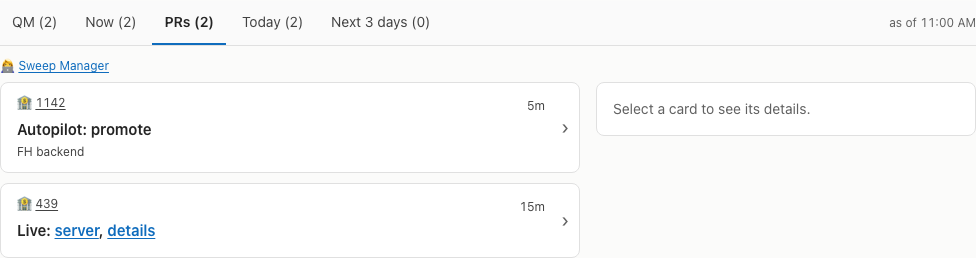
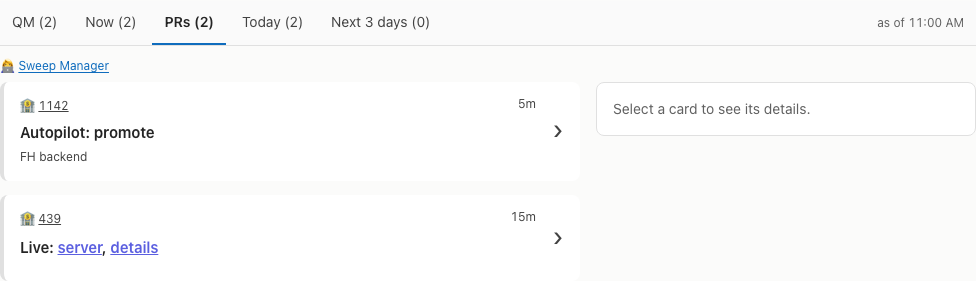
fix(priorities-tables): Centre a larger card chevron, pad the stamp, drop the card project link (#260)

diff --git a/web/src/ui/ui.css b/web/src/ui/ui.css
@@ -4,23 +4,25 @@
 
 /* Card: the whole card selects; links and tools sit above the stretched target. @req FR:ui-kit/card */
 .ui-cards { list-style: none; margin: 0; padding: 0; display: flex; flex-direction: column; gap: 14px; }
-.ui-card { position: relative; display: grid; grid-template-columns: minmax(0, 1fr) auto; grid-template-areas: "top tools" "open tools"; gap: 6px 8px; padding: 14px 14px 14px 16px; border-radius: var(--fl-r-xl); border-left: 4px solid var(--ui-edge, var(--line)); background: var(--ui-soft, var(--panel)); color: var(--ui-ink, var(--ink)); transition: background var(--fl-fast) var(--fl-ease), box-shadow var(--fl-fast); }
+.ui-card { position: relative; display: grid; grid-template-columns: minmax(0, 1fr) auto; grid-template-areas: "top tools" "open tools"; gap: 6px 8px; padding: 14px 44px 14px 16px; border-radius: var(--fl-r-xl); border-left: 4px solid var(--ui-edge, var(--line)); background: var(--ui-soft, var(--panel)); color: var(--ui-ink, var(--ink)); transition: background var(--fl-fast) var(--fl-ease), box-shadow var(--fl-fast); }
 .ui-card.strong { background: var(--ui-strong, var(--ui-soft, var(--panel))); box-shadow: var(--fl-shadow4); }
 .ui-card[data-selected="true"] { outline: 2px solid var(--focus); outline-offset: 2px; }
 .ui-card-top { grid-area: top; display: flex; flex-wrap: wrap; align-items: center; gap: 4px 10px; min-width: 0; font-size: 12px; color: var(--ui-ink2, var(--ink2)); }
 .ui-card-top a { position: relative; z-index: 1; }
-.ui-card-open { grid-area: open; position: static; display: grid; grid-template-columns: minmax(0, 1fr) auto; grid-template-areas: "title chev" "sub chev"; gap: 4px 8px; align-items: center; min-height: 32px; padding: 0; border: 0; background: none; color: inherit; font: inherit; text-align: left; cursor: pointer; }
+.ui-card-open { grid-area: open; position: static; display: grid; grid-template-columns: minmax(0, 1fr); grid-template-areas: "title" "sub"; gap: 4px 8px; align-items: center; min-height: 32px; padding: 0; border: 0; background: none; color: inherit; font: inherit; text-align: left; cursor: pointer; }
 .ui-card-open::after { content: ''; position: absolute; inset: 0; border-radius: inherit; }
 .ui-card-open:focus-visible { outline: none; }
 .ui-card-open:focus-visible::after { outline: 2px solid var(--focus); outline-offset: 2px; border-radius: var(--fl-r-xl); }
 .ui-card:hover .ui-card-title { text-decoration: underline; }
 .ui-card-title { grid-area: title; font-size: 15px; font-weight: 600; line-height: 21px; overflow-wrap: anywhere; }
 .ui-card-sub { grid-area: sub; display: flex; flex-wrap: wrap; gap: 4px 12px; font-size: 12px; color: var(--ui-ink2, var(--ink2)); }
-.ui-card-chev { grid-area: chev; font-size: 20px; color: var(--ui-ink2, var(--ink2)); }
+/* The chevron: 28 px, in a 44 px column at the right edge, centred on the full card height (the card is its containing block). @req FR:ui-kit/card.chev */
+.ui-card-chev { position: absolute; inset: 0 0 0 auto; width: 44px; display: flex; align-items: center; justify-content: center; padding-bottom: 4px; font-size: 28px; line-height: 1; color: var(--ui-ink2, var(--ink2)); pointer-events: none; }
 /* With `label`: title and sub line outside the button, so their links stay links above the stretched target. */
-.ui-card-body { grid-area: open; display: grid; grid-template-columns: minmax(0, 1fr) auto; grid-template-areas: "title chev" "sub chev"; gap: 4px 8px; align-items: center; min-width: 0; }
+.ui-card-body { grid-area: open; display: grid; grid-template-columns: minmax(0, 1fr); grid-template-areas: "title" "sub"; gap: 4px 8px; align-items: center; min-width: 0; }
 .ui-card-body a { position: relative; z-index: 1; }
-.ui-card-open.ui-card-chev-btn { grid-area: chev; display: inline-flex; align-items: center; justify-content: center; min-width: 24px; }
+/* The button holds only the chevron: it takes no room of its own; its stretched target covers the card. */
+.ui-card-open.ui-card-chev-btn { grid-area: 1 / 1 / -1 / -1; display: block; }
 .ui-card-tools { grid-area: tools; position: relative; z-index: 1; display: flex; flex-direction: column; gap: 4px; align-items: center; }
 /* An open menu lifts its card's tools above the cards below. */
 .ui-card-tools:has(.ui-menu) { z-index: 30; }
@@ -70,7 +72,7 @@
 .ui-tab:hover { color: var(--fl-fg1); }
 .ui-tab[aria-selected="true"] { color: var(--fl-fg1); font-weight: 600; border-bottom-color: var(--fl-brand); }
 .ui-tab:focus-visible { outline: 2px solid var(--fl-focus); outline-offset: -2px; border-radius: var(--fl-r-sm); }
-.ui-tabbar-aside { flex: none; font-size: 12px; line-height: 16px; color: var(--fl-fg3); white-space: nowrap; }
+.ui-tabbar-aside { flex: none; padding-inline-end: var(--fl-s-m); font-size: 12px; line-height: 16px; color: var(--fl-fg3); white-space: nowrap; }
 
 /* Split view: list and detail side by side when wide; detail replaces the list when narrow. @req FR:ui-kit/split */
 .ui-split { display: block; }

diff --git a/web/e2e/priorities-tables.spec.ts b/web/e2e/priorities-tables.spec.ts
@@ -46,6 +46,8 @@ const shot = async (page: Page, name: string) => {
   await page.setViewportSize({ width: page.viewportSize()!.width, height: 1400 });
   await page.getByTestId('pri-tables').screenshot({ path: `e2e/screenshots/priorities-report-${name}.png` });
 };
+/** Narrow: the open detail hides the list; go back to it. */
+const back = async (page: Page) => { const b = page.getByRole('button', { name: '‹ Back' }); if (await b.count()) await b.click(); };
 /** Text outside links that still looks like a PR or issue ref. */
 const bareRefs = (page: Page) => page.getByTestId('pri-tables').evaluate((el) => [...el.querySelectorAll('.ui-card-title, .ui-card-top, .pri-d')].flatMap((c) => {
   const x = c.cloneNode(true) as HTMLElement;
@@ -84,15 +86,21 @@ test.describe('Priorities report', () => {
     }
     await page.getByTestId('pri-tab-now').click();
     const fh = cards(page, 'now').nth(1);
-    await expect(fh.getByRole('link', { name: 'FH Premium' })).toHaveAttribute('href', '#/list?project=allyte');
-    // no agent link on the card; it lives in the detail pane
+    // no project or agent link on the card; they live in the detail pane. @req FR:priorities-tables/web.card.project
+    await expect(fh.locator('.ui-card-top')).toHaveText('FH Premium');
+    expect(await fh.locator('.ui-card-top a').count()).toBe(0);
     expect(await fh.locator('.ui-card-sub a').count()).toBe(0);
     await expect(fh.getByRole('link', { name: '430' })).toHaveAttribute('href', U(430));
     const gap = cards(page, 'now').nth(2);
-    await expect(gap.locator('.ui-card-top')).toHaveText('FH 0.11 ⚠ no link');
+    await expect(gap.locator('.ui-card-top')).toHaveText('FH 0.11');
     expect(await gap.getByRole('link').count()).toBe(0);
+    await gap.getByRole('button', { name: 'Details: FH 0.11' }).click();
+    await expect(detail(page).getByRole('heading')).toHaveText('FH 0.11 ⚠ no link');
+    await back(page);
     await fh.getByRole('button', { name: 'Details: FH Premium' }).click();
+    await expect(detail(page).getByRole('link', { name: 'FH Premium' })).toHaveAttribute('href', '#/list?project=allyte');
     await expect(detail(page).getByRole('link', { name: 'FH backend' })).toHaveAttribute('href', 'claude://claude.ai/epitaxy/s1');
+    await back(page);
     await page.getByTestId('pri-tab-qm').click();
     await cards(page, 'qm').nth(1).getByRole('button').click();
     await expect(detail(page).getByRole('link', { name: 'qm-planner' })).toHaveAttribute('href', '#/agents?file=.claude%2Fagents%2Fqm-planner.md');
@@ -187,6 +195,24 @@ test.describe('Priorities report', () => {
     expect(await c.evaluate((el) => getComputedStyle(el).backgroundColor)).toBe(await c.evaluate((el) => { const p = document.createElement('div'); p.style.background = 'var(--fl-bg1)'; el.parentElement!.appendChild(p); const b = getComputedStyle(p).backgroundColor; p.remove(); return b; }));
     expect(await page.evaluate(() => document.documentElement.scrollWidth <= window.innerWidth)).toBe(true);
     if (info.project.name === 'mobile') for (const t of await page.getByRole('tab').all()) expect((await t.boundingBox())!.height).toBeGreaterThanOrEqual(44);
+  });
+
+  // @req FR:priorities-tables/web.card.open @req FR:priorities-tables/web.tabs.head @req FR:ui-kit/card.chev @req FR:ui-kit/tabs
+  test('the chevron is large and centred on the card height; the stamp has space after it', async ({ page }) => {
+    await open(page, view(), '#/now?pri=now');
+    for (const c of await cards(page, 'now').all()) {
+      const [card, chev] = [(await c.boundingBox())!, (await c.locator('.ui-card-chev').boundingBox())!];
+      expect(Math.abs((chev.y + chev.height / 2) - (card.y + card.height / 2))).toBeLessThanOrEqual(1);
+      expect(chev.height).toBeGreaterThanOrEqual(card.height - 1);
+      expect(chev.width).toBeGreaterThanOrEqual(44);
+      expect(card.x + card.width - (chev.x + chev.width)).toBeLessThanOrEqual(1);
+      expect(await c.locator('.ui-card-chev').evaluate((el) => parseFloat(getComputedStyle(el).fontSize))).toBeGreaterThanOrEqual(28);
+      // the status chip stays clear of the chevron
+      const tools = await c.locator('.ui-card-tools').count() ? await c.locator('.ui-card-tools').boundingBox() : null;
+      if (tools) expect(tools.x + tools.width).toBeLessThanOrEqual(chev.x + 1);
+    }
+    const [bar, stamp] = [(await page.locator('.pri-head .ui-tabbar').boundingBox())!, (await page.getByTestId('pri-stamp').boundingBox())!];
+    expect(bar.x + bar.width - (stamp.x + stamp.width)).toBeGreaterThanOrEqual(12);
   });
 
   for (const scheme of ['light', 'dark'] as const) {

diff --git a/web/src/PrioritiesTables.tsx b/web/src/PrioritiesTables.tsx
@@ -1,9 +1,9 @@
 /**
  * Now's priorities report: tabs (QM, Now, PRs, Today, Next 3 days, each with its count of real rows) over a list of muted
- * cards and a detail pane, built from the shared components (`web/src/ui/`). The whole card opens its detail; the agent link lives in
+ * cards and a detail pane, built from the shared components (`web/src/ui/`). The whole card opens its detail; the project and agent links live in
  * the detail only. The stamp sits at the right end of the tab bar. The tab is kept in the hash.
  * @req FR:priorities-tables/web.place @req FR:priorities-tables/web.tabs @req FR:priorities-tables/web.tabs.count @req FR:priorities-tables/web.tabs.default
- * @req FR:priorities-tables/web.tabs.hash @req FR:priorities-tables/web.tabs.head @req FR:priorities-tables/web.table @req FR:priorities-tables/web.table.line
+ * @req FR:priorities-tables/web.card.project @req FR:priorities-tables/web.tabs.hash @req FR:priorities-tables/web.tabs.head @req FR:priorities-tables/web.table @req FR:priorities-tables/web.table.line
  * @req FR:priorities-tables/web.table.gap @req FR:priorities-tables/web.table.empty @req FR:priorities-tables/web.links @req FR:priorities-tables/web.live @req FR:priorities-tables/web.live.absent
  * @req NFR:priorities-tables/a11y.axe @req NFR:priorities-tables/a11y.tokens @req NFR:priorities-tables/a11y.keys @req NFR:priorities-tables/a11y.target @req NFR:priorities-tables/a11y.mobile
  */
@@ -117,7 +117,7 @@ export function PrioritiesTables({ v }: { v: PrioritiesView }) {
         )))
         : (!n ? <Only text="Nothing here" /> : s.t.rows.map((r, i) => (
           <SelectCard key={`${r.id}:${r.ref ?? r.project}`} class={`pri-card${r.gap ? ' pri-gap' : ''}`} label={`Details: ${r.project}`} selected={at === i} onSelect={() => setSel(i)}
-            top={<><LinkOr href={projectHref(r.file)} text={r.project} />{r.stale && <span class="pri-stale"> stale</span>}</>}
+            top={<>{r.project}{r.stale && <span class="pri-stale"> stale</span>}</>}
             tools={r.status ? <Status s={r.status} /> : undefined}
             title={r.gap ? <span class="pri-muted">{actionText(r)}</span> : <Rich text={r.action} />}
             sub={<AgentName a={r.agent} more={0} />} />

diff --git a/web/e2e/prs.spec.ts b/web/e2e/prs.spec.ts
@@ -236,6 +236,10 @@ test('one card: repo, # link, title, author, one action flag, spec lines, Pin, A
   const flag = await c.locator('.ui-flag').evaluate((e) => { const cs = getComputedStyle(e); return { bg: cs.backgroundColor, border: cs.borderTopWidth, cursor: cs.cursor, tab: (e as HTMLElement).tabIndex, role: e.getAttribute('role'), tag: e.tagName, icon: !!e.querySelector('svg') }; });
   expect(flag).toEqual({ bg: 'rgba(0, 0, 0, 0)', border: '0px', cursor: 'default', tab: -1, role: null, tag: 'SPAN', icon: true });
   await expect(c.locator('.pr-spec')).toHaveText('8 spec lines');
+  // The chevron: its 44 px column spans the card height at the right edge; the tools stay clear of it. @req FR:ui-kit/card.chev
+  const [box, chev, tools] = [(await c.boundingBox())!, (await c.locator('.ui-card-chev').boundingBox())!, (await c.locator('.ui-card-tools').boundingBox())!];
+  expect(Math.abs((chev.y + chev.height / 2) - (box.y + box.height / 2))).toBeLessThanOrEqual(1);
+  expect([chev.width >= 44, box.x + box.width - (chev.x + chev.width) <= 1, tools.x + tools.width <= chev.x + 1]).toEqual([true, true, true]);
   await expect(c.getByRole('button')).toHaveCount(3); // select + Pin + Actions
   await expect(c.getByRole('button', { name: 'Actions for allytehq/finops-hubs#1105' })).toHaveAttribute('aria-haspopup', 'menu');
   await expect(c.getByRole('button', { name: 'Pin allytehq/finops-hubs#1105' })).toHaveAttribute('aria-pressed', 'false');

diff --git a/.xe/features/priorities-tables/spec.md b/.xe/features/priorities-tables/spec.md
@@ -144,21 +144,22 @@ Owner needs the report on the Now page so that he sees it without a new screen.
   - **FR:web.tabs.default** (P1): The first tab shown MUST be QM when QM is a priority today, else Now.
   - **FR:web.tabs.hash** (P1): The chosen tab MUST be kept in the URL hash (`#/now?pri=prs`) and restored on load.
   - **FR:web.tabs.keys** (P1): Tabs MUST follow the ARIA tabs pattern: arrow keys, Home and End move between tabs.
-  - **FR:web.tabs.head** (P1): The stamp `as of <time>` (`, stale` when stale) of the chosen tab MUST sit small at the right end of the tab bar, and the bar MUST stay in view on scroll, with the time in the report's configured time zone.
+  - **FR:web.tabs.head** (P1): The stamp `as of <time>` (`, stale` when stale) of the chosen tab MUST sit small at the right end of the tab bar with 12 px of space after it, and the bar MUST stay in view on scroll, with the time in the report's configured time zone.
 - **FR:web.kit** (P1): The report MUST be built from the shared components (`FR:ui-kit`, `web/src/ui/`: `Tabs`, `SelectCard`, `StatusChip`, `SplitView`, `useWide`), which the PR page also uses (`.xe/standards/ui.md`).
 - **FR:web.table** (P1): Each row MUST be a muted card: project and status on line 1, next action on line 2, agent on line 3. A PR card MUST show PR and Time on line 1, the next action on line 2 and the agent on line 3.
   - **FR:web.table.line** (P1): Each line MUST show one line and end a cut line with `…`.
   - **FR:web.status.chip** (P1): Status MUST be a `StatusChip` (`FR:ui-kit/chip`: a dot and one word on a tint); a row with no agent MUST show no chip.
   - **FR:web.card.agent** (P1): The card MUST show the agent name as plain text, with no added emoji and no link.
-  - **FR:web.card.open** (P1): The whole card MUST open its detail (one target, ending in `›`); links on the card MUST stay links.
+  - **FR:web.card.project** (P1): The card MUST show the project as plain text.
+  - **FR:web.card.open** (P1): The whole card MUST open its detail (one target, ending in `›`, `FR:ui-kit/card.chev`); links on the card MUST stay links.
 - **FR:web.detail** (P1): The detail pane MUST show the project (linked), status chip, full next action (linked refs), agent (linked) with `+ N more on this goal`, source `path:line` and the stamp. Wide (900 px or more) it MUST sit beside the list; narrow it MUST replace the list, with Back.
   - **FR:web.table.gap** (P1): A gap row MUST show its action in muted text with the word `Gap:` first.
   - **FR:web.table.empty** (P1): An empty tab MUST show one card `Nothing here`.
 - **FR:web.links** (P1): Every row MUST link its targets.
-  - **FR:web.links.project** (P1): The project MUST link to its project page (`#/list?project=<file>`).
+  - **FR:web.links.project** (P1): In the detail pane, the project MUST link to its project page (`#/list?project=<file>`).
   - **FR:web.links.agent** (P1): In the detail pane, the agent MUST link to its session, else to its agent file in the Agents view.
   - **FR:web.links.refs** (P1): Each PR, issue and URL in the action MUST be a link; no bare `#12` or `PR 12` MUST show.
-  - **FR:web.links.gap** (P1): A project or agent with no link target MUST show the gap marker `⚠ no link`, never plain text alone.
+  - **FR:web.links.gap** (P1): In the detail pane, a project or agent with no link target MUST show the gap marker `⚠ no link`.
   - **FR:web.links.none** (P1): `--` MUST be plain text.
 - **FR:web.live** (P1): Now MUST read `GET /priorities` on load, on each live change and every 60 s while visible.
   - **FR:web.live.absent** (P2): Now MUST hide the report when `GET /priorities` answers 404.

diff --git a/.xe/features/ui-kit/spec.md b/.xe/features/ui-kit/spec.md
@@ -24,6 +24,7 @@ The owner needs every list view to look and act the same so that he reads a PR, 
 ### FR:card: Selectable card
 
 - **FR:card** (P1): `SelectCard` is one list item: an optional top line (links, flags, chips), a title, an optional sub line, an optional tools column, and a chevron (`›`). One button covers the card; a tap or click anywhere that is not a link or a tool selects it, and Enter or Space on it does the same. Links and tools sit above it. `selected` sets `aria-current` and a focus-colored outline. `sr` is text read after the title by assistive tech only. With `label`, the title and sub line sit outside the button, so links in them stay links, and the button (the chevron, stretched over the card) is named `label`. A view sets the tone with the CSS variables `--ui-edge`, `--ui-soft`, `--ui-strong`, `--ui-ink`, `--ui-ink2`, and the class `strong`. Cards in a `ui-cards` list have 14 px between them and 14 px padding inside
+  - **FR:card.chev** (P1): The 28 px chevron MUST sit centred in a 44 px column at the right edge, over the card height.
 
 ### FR:flag: Flag
 
@@ -43,7 +44,7 @@ The owner needs every list view to look and act the same so that he reads a PR, 
 
 ### FR:tabs: Tabs
 
-- **FR:tabs** (P1): `Tabs` is a tab bar (ARIA tabs pattern: one selected tab with `tabIndex` 0, arrow keys, Home and End pick and focus). An optional `aside` sits small at the right end of the bar
+- **FR:tabs** (P1): `Tabs` is a tab bar (ARIA tabs pattern: one selected tab with `tabIndex` 0, arrow keys, Home and End pick and focus). An optional `aside` sits small at the right end of the bar, with 12 px of space after it
 
 ### FR:split: Split view
 

diff --git a/.xe/standards/ui.md b/.xe/standards/ui.md
@@ -14,4 +14,4 @@ Applies to every view in `web/`. See also `docs/design-system.md`.
 
 - Muted Fluent 2: neutral surfaces, one accent (brand: links, the chosen tab, focus).
 - State is a `StatusChip`: a dot and one word on a light tint.
-- A card selects as a whole (`SelectCard`); links on it stay links. The agent link lives in the detail pane.
+- A card selects as a whole (`SelectCard`); links on it stay links. The project and agent links live in the detail pane.
